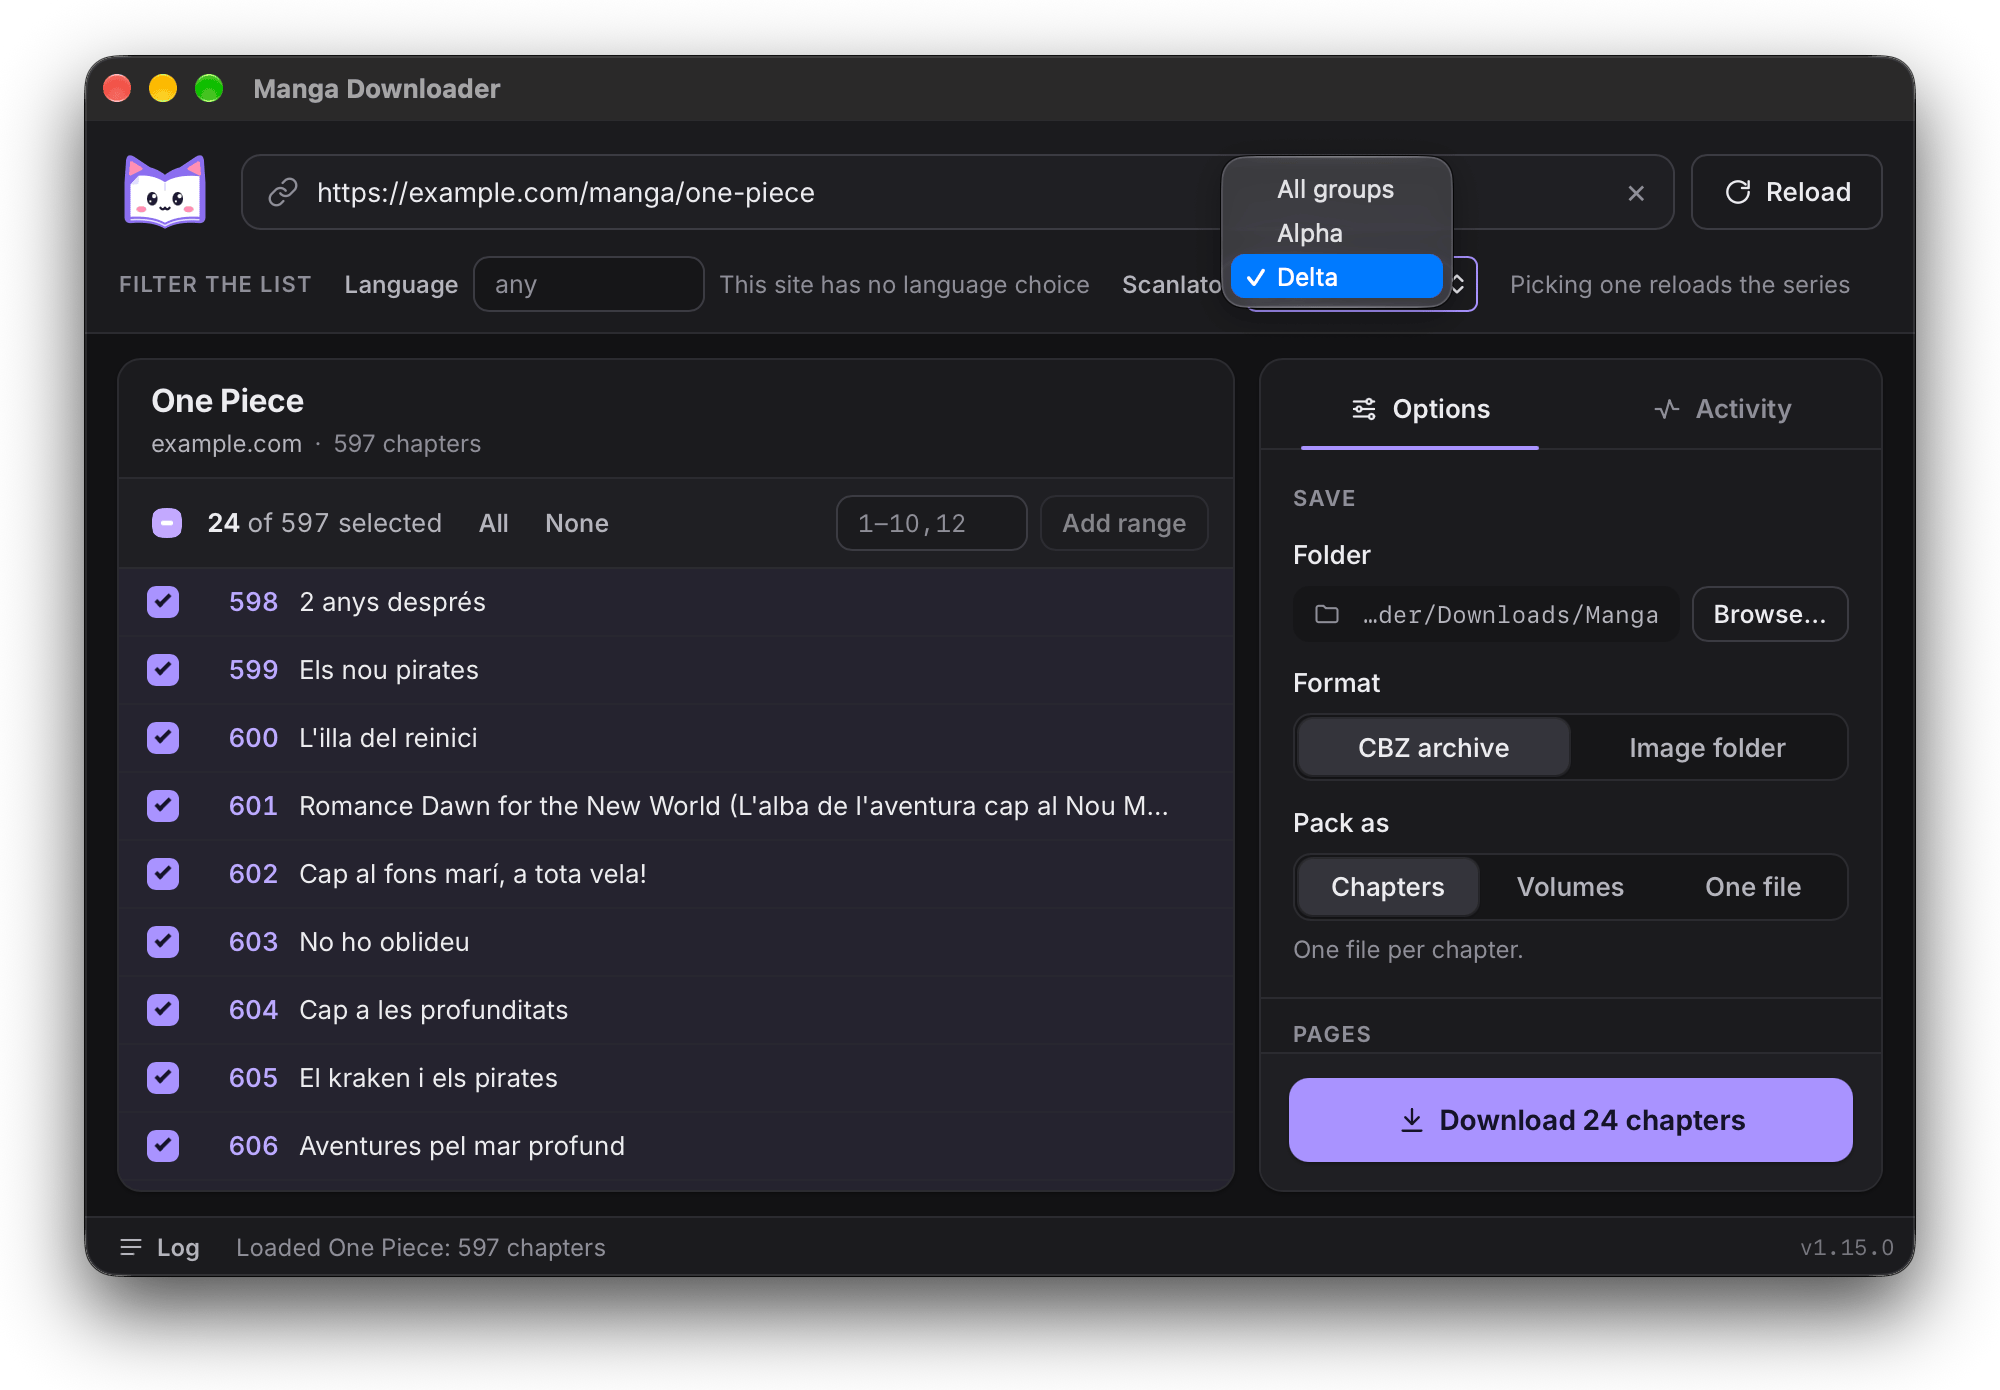
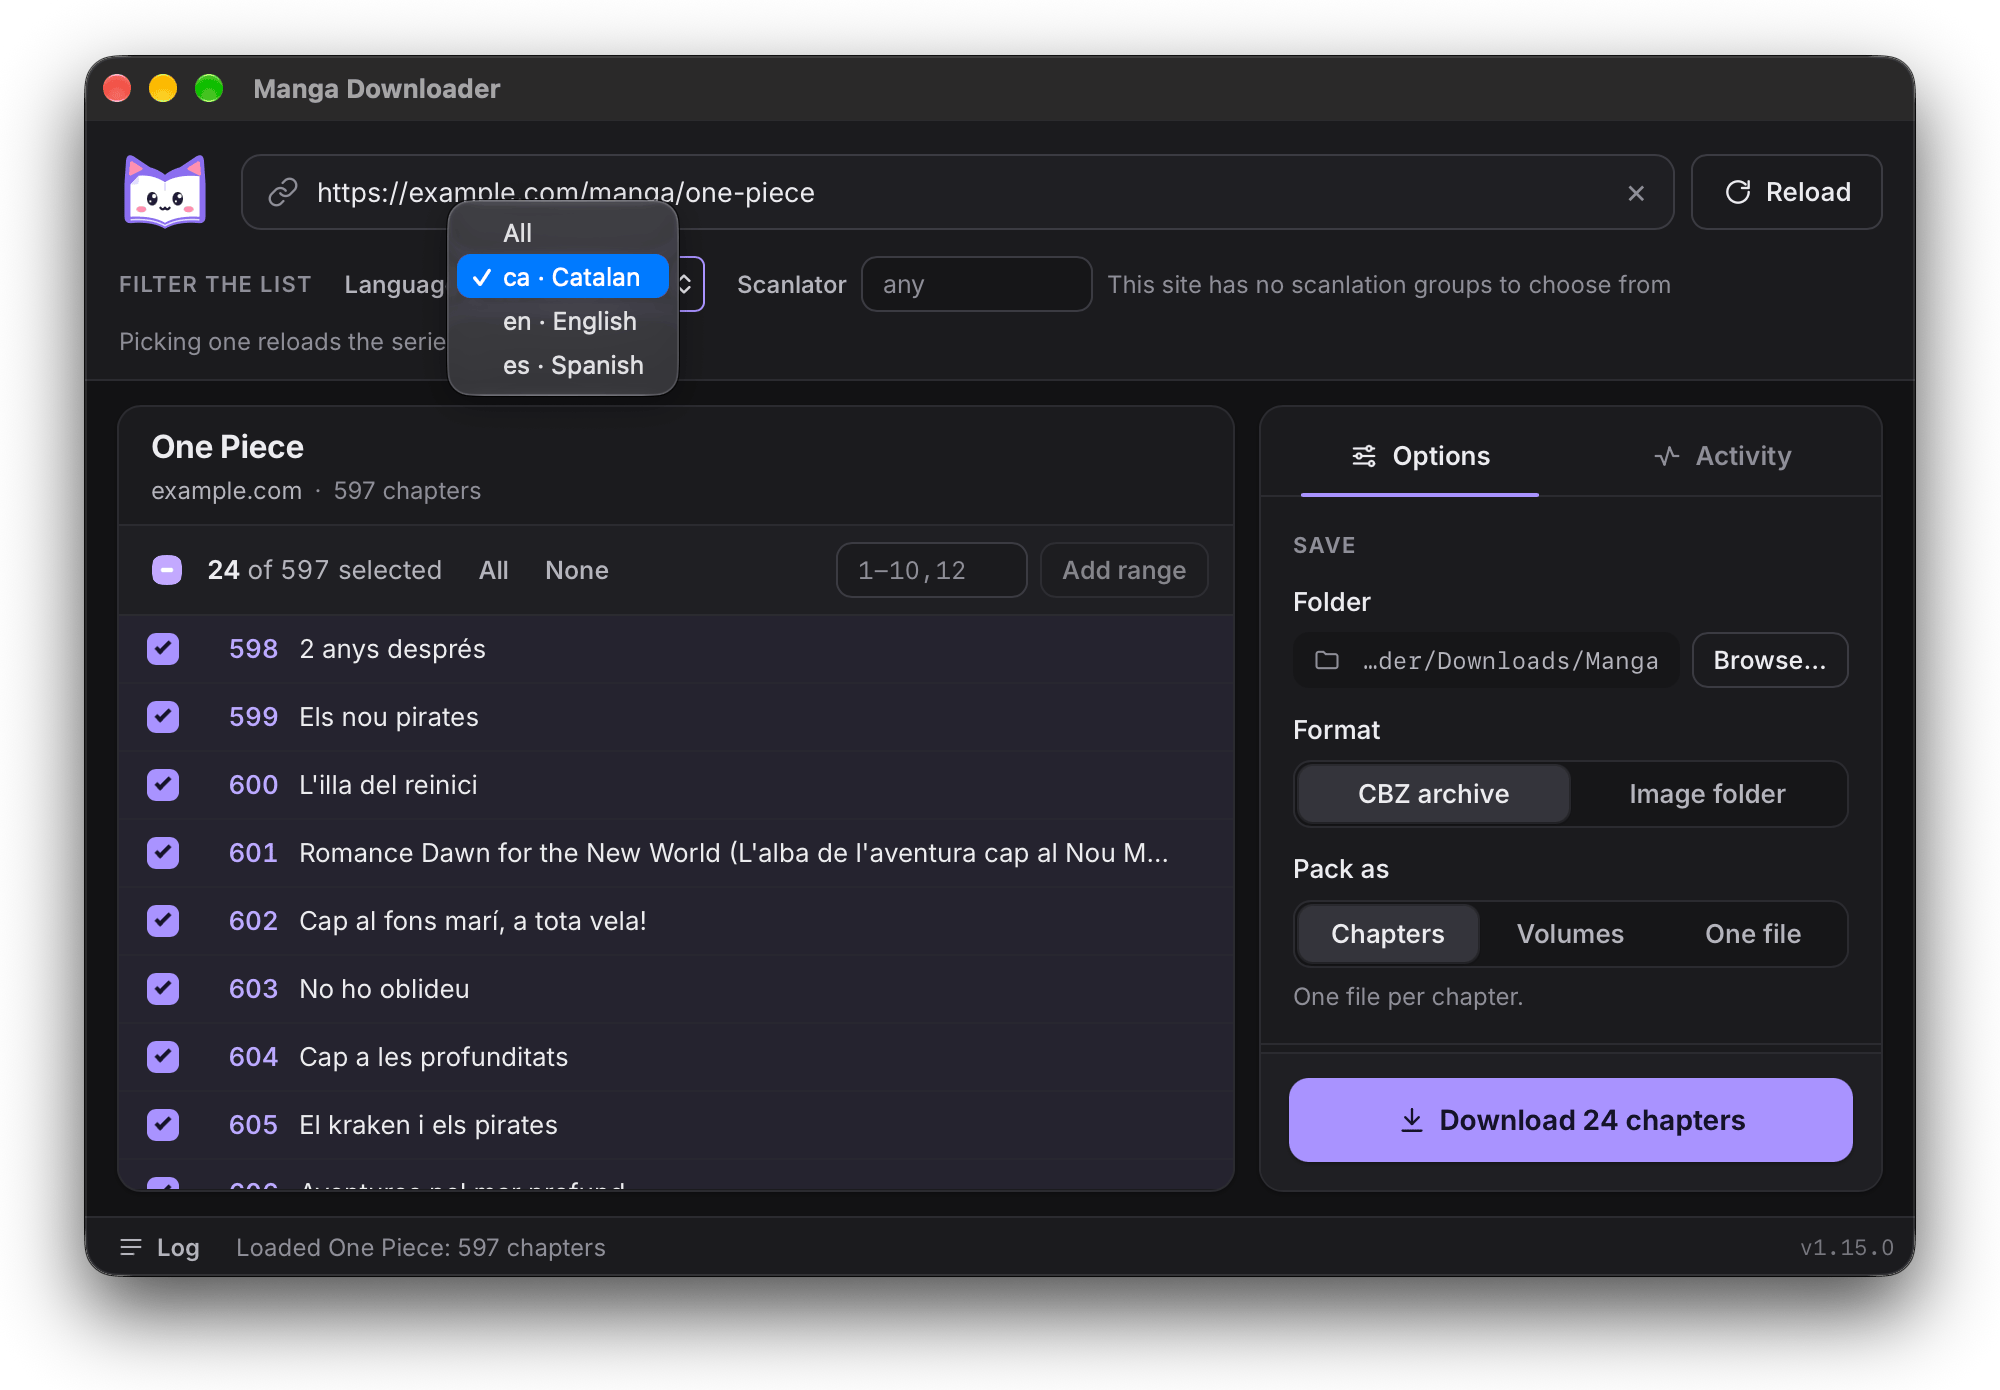
docs(screenshots): show the Language dropdown in the 03 shot (#252)

diff --git a/website/index.html b/website/index.html
@@ -209,7 +209,7 @@
                   <source type="image/webp" srcset="/src/assets/screenshots/language-selector-light-600.webp 600w, /src/assets/screenshots/language-selector-light-1000.webp 1000w"
                           sizes="(min-width: 821px) 45vw, 92vw" />
                   <img src="/src/assets/screenshots/language-selector-light-1000.webp" srcset="/src/assets/screenshots/language-selector-light-600.webp 600w, /src/assets/screenshots/language-selector-light-1000.webp 1000w"
-                       sizes="(min-width: 821px) 45vw, 92vw" width="1000" height="1142" alt="{{a:desktop.languageAlt}}" loading="lazy" />
+                       sizes="(min-width: 821px) 45vw, 92vw" width="1000" height="1242" alt="{{a:desktop.languageAlt}}" loading="lazy" />
                 </picture>
               </figure>
             </article>

diff --git a/website/README.md b/website/README.md
@@ -64,14 +64,15 @@ every browser the site cares about reads, so there are no PNG fallbacks.
 The files are converted offline and committed, so the build needs no image tools.
 The crop script is [`build/crop-screenshots.sh`](build/crop-screenshots.sh). The
 geometry is `WxH+X+Y` on the 2000x1390 original, with the window's top-left at
-(85,56), so `03-language-selector-*.png` crops to `820x960+1095+56`, the
-right-hand part of the window with the group dropdown open. The
+(85,56), so `03-language-selector-*.png` crops to `740x960+85+56`, the
+left-hand part of the window with the Language dropdown open, stopping short of
+the range box. The
 `finished-run` crop starts at x=1245, between the chapter list and the Activity
 panel, so no edge of the list shows in it:
 
 | Crop                | Original                                | Geometry            |
 | ------------------- | --------------------------------------- | ------------------- |
-| `language-selector` | `03-language-selector-{light,dark}.png` | `820x960+1095+56`   |
+| `language-selector` | `03-language-selector-{light,dark}.png` | `740x960+85+56`     |
 | `chapter-list`      | `04-downloading-{light,dark}.png`       | `1150x885+100+390`  |
 | `finished-run`      | `05-done-{light,dark}.png`              | `670x830+1245+390`  |
 

diff --git a/README.md b/README.md
@@ -286,7 +286,7 @@ Open the app and follow these steps:
 
    <picture>
      <source media="(prefers-color-scheme: dark)" srcset="assets/screenshots/03-language-selector-dark.png">
-     <img alt="The scanlation group selector open, listing the groups the series offers" src="assets/screenshots/03-language-selector-light.png">
+     <img alt="The language selector open, with Catalan selected" src="assets/screenshots/03-language-selector-light.png">
    </picture>
 
 4. **Set the options** in the *Options* tab: where the files go, the format

diff --git a/tools/screenshots/README.md b/tools/screenshots/README.md
@@ -40,7 +40,7 @@ moves on, update the `&shot` constants near `RELEASE_VERSION` in `mock.ts`.
 ## Files
 
 - `shot.sh OUT light|dark QUERY [WAIT] [JS]`: one capture.
-- `shot-select.sh OUT light|dark`: 03, the scanlation group `<select>` open.
+- `shot-select.sh OUT light|dark`: 03, the Language `<select>` open on Catalan.
   A native popup can't be opened from JS, so it clicks it with `cliclick`;
   WebKit draws the popup inside the window, and `screencapture -l` leaves the
   cursor out.
